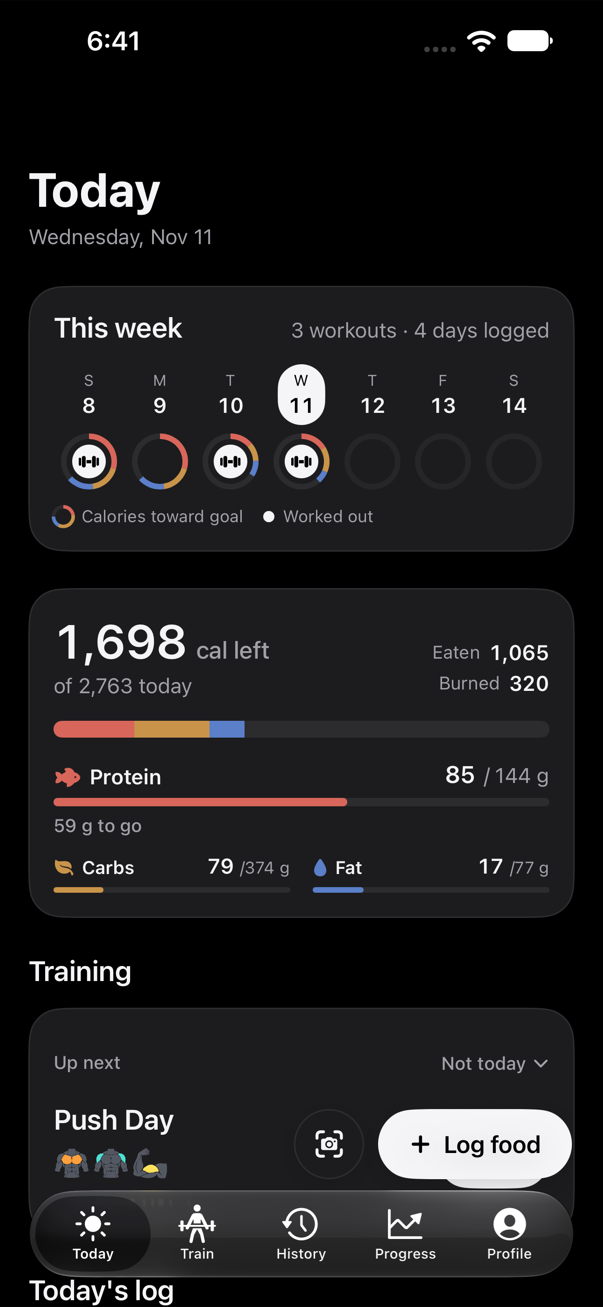
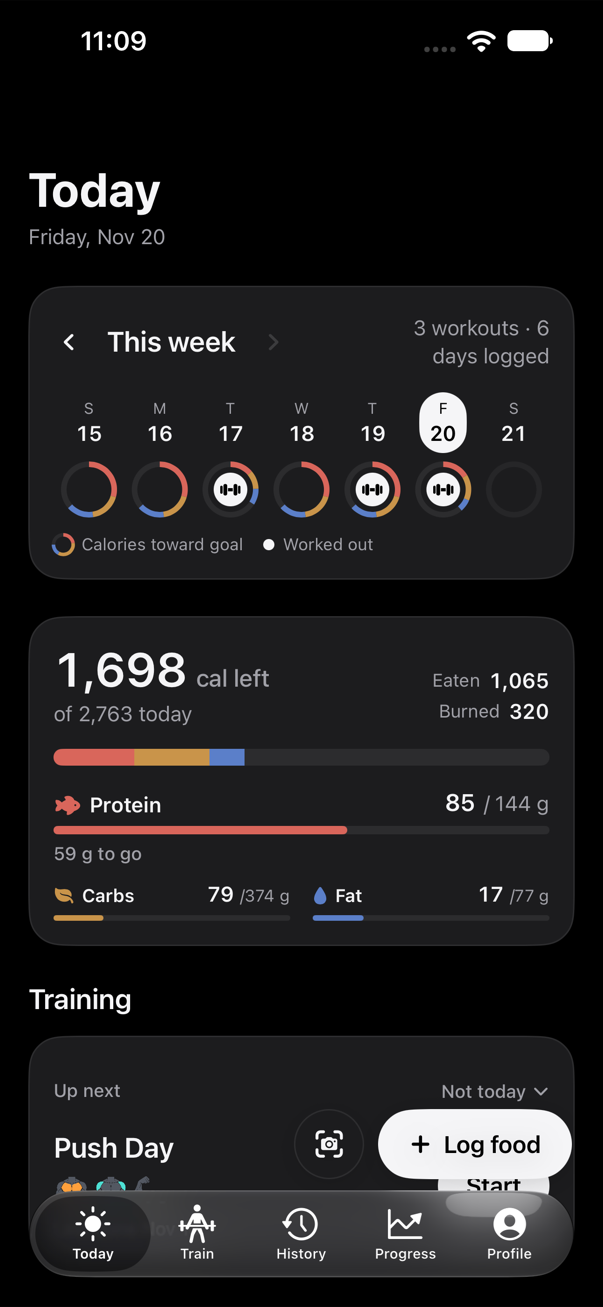
N16: README Today screenshot and Pick a day; D92 approved; ticket evidence (Unit 1344/1344, TodayTrain 86/86); Codex round-1 brief; STATE

diff --git a/work-record/nutrition/issues/16-pick-a-day-on-today.md b/work-record/nutrition/issues/16-pick-a-day-on-today.md
@@ -1,10 +1,10 @@
 # N16 — Pick a day on Today: see it and log food to it
 
 Type: feature
-Status: **prototype round 2 (the user's answers applied), waiting for the user's check** (2026-11-20)
+Status: **built — in Codex review** (2026-11-20; the user approved the prototype without the Back to Today strip)
 Implementer: Claude; Reviewer: Codex (a Paseo Codex agent in this workspace), to "clear".
 Branch: `ericlee4992/today-pick-day` off `main` `cb364043` (Paseo worktree `~/.paseo/worktrees/1qmeipq9/today-pick-day`).
-Decision: **D92** (proposed; the user's answers of 2026-11-20 folded in, approval pending the round-2 check). Builds on D68 (Today), D70 (dated goals), D77 (Up next), N5 (Today's food), N10 (a day's
+Decision: **D92** (approved 2026-11-20). Builds on D68 (Today), D70 (dated goals), D77 (Up next), N5 (Today's food), N10 (a day's
 food page, `DayFoodView`), D82/D83 (scans).
 
 ## The ask (the user, 2026-11-20)
@@ -183,3 +183,65 @@ time follows the meal it opened with, not one changed on the label screen.
   lastUsedAt at now) and the reset rule. UI tests for pick → log → back, earlier weeks, and AXL. Remove the prototype
   file, its hooks and its UI test.
 - Codex review rounds per the `review-round` skill (a new Paseo Codex agent in this workspace).
+
+## The user's go (2026-11-20)
+
+"lets just get rid of back to today button. people can just click the day. start building" — no Back to Today strip
+or button: **today's ring is the way back**. Prototype kept at tag `design/today-pick-day-prototype` (`2bb4bdf1`).
+
+### 2026-11-20 — the real build
+
+- **Prototype removed:** `TodayDayPrototype.swift`, its hooks and `TodayDayPrototypeUITests`; the prototype captures
+  are replaced by the real ones.
+- **Domain:** `Domain/TodayDayPick.swift` — `TodayDayPick` (the picked day and the shown week; `pick`, `moveWeek`,
+  `shownDay`/`showsPastDay`/`logDay`/`shownWeek`, `resetsOnReturn`, `weekTitle`) and `FoodLogDay` (the meal's usual
+  time on a picked past day; nil for none or today; `title`). `WeekSummaryMath.summary(…weekOf:)` shows an earlier week
+  (its days neither today nor ahead; only that week and the one before read). `FoodLog.log` (food, meal), `logManual`
+  and `FoodScan.logLabel` take `loggedAt:` — **only the entry's `loggedAt` moves; `createdAt` and the food's / meal's
+  `lastUsedAt` stay now**, so Recently logged keeps its order.
+- **The day is passed explicitly** (no shared state): Today snapshots `pick.logDay` into `logDay` when Log food or the
+  camera is tapped → `LogFoodView(day:)` (its subtitle, the +, search results, Estimate) → `SelectedFoodView(day:)`,
+  `SelectedMealView(day:)`, `ManualAddView(day:)`, `FoodScanFlow(day:)` (meal photo — camera and library, the picked
+  day winning over a library photo's date — the label via `LabelFoodView(day:)`, the barcode's `SelectedFoodView`), and
+  Today's Manual Add from a scan. `FoodScanQueue` carries `pickedDay` (kept on retry): a picked day's log lists its
+  own scans; today lists every scan as before (so a failed one sent from a picked day is never out of sight); a scan
+  logged to its picked day leaves no "logged earlier" card.
+- **Today:** `@State pick` (kept across tab switches); back to today when the app returns from the background on
+  another day or after an hour (`scenePhase`); the rings follow a picked day's week, so a day picked this week stays
+  in view when the screen is left open into the next. Title, inline title, fuel card (`isToday: false`, Burned from
+  the day's workouts), Training (Resume only), "Tuesday's log" / "Nothing logged on Tuesday.", scans. The pill and
+  the camera are unchanged.
+- **No stored-format change:** no model or schema edit (`loggedAt` exists). No migration, no Gate S.
+- **Apple Health (D74):** `HealthNutritionSync.writeFood` reconciles every entry at its own `loggedAt` with no date
+  window, so a back-dated entry is written on its day and follows its edits and deletes — no change needed.
+- **Self-check fixes before review:** a failed scan from a picked day was only on that day (errors read as absence) →
+  today lists it too; a day picked this week fell out of the rings at a week's end → the rings follow the picked day.
+- **README:** Food logging gains "Pick a day"; `docs/readme/today.png` retaken (the week now has ‹ ›).
+- **Tests:** `WorkoutTrackerTests/TodayDayPickTests.swift` (15: picking, today's ring back, days ahead, midnight, a
+  pick no longer past, week moves and titles, an earlier week's summary, the week rollover, the reset rule, the meal
+  times, logging food / meal / Manual Add / label to a picked day with `createdAt` and "last used" at now, unchanged
+  without a day). `WorkoutTrackerUITests/TodayPickDayUITests.swift` (6: pick → log → today's ring back, a day ahead is
+  no button, camera and library scans to the picked day with nothing on today and no leftover card, earlier weeks,
+  captures light Default and dark AccessibilityL); added to the TodayTrain plan (`scripts/test-plans.py`).
+- **Captures:** [`../captures/16/`](../captures/16/) — `1-today`, `2-past-day`, `3-past-day-log`, `4-log-food`,
+  `5-last-week` in light Default and dark AccessibilityL, and a sheet for each.
+- **Known (by design):** an earlier day before any nutrition goal shows "Set your goals" (D70's dated goals, as N10's
+  day page).
+
+
+### Verification (the real build, 2026-11-20)
+
+Scope (DEVELOPMENT → Verification scope, "Ticket done" for a new feature on Today and Log food, touching the scan
+flow and a Domain week summary with several callers): the Unit plan + the ticket's area plan, TodayTrain (Today,
+Log food, Scan food, barcode, Korean food, Up next, templates — it includes the new class). Captures of the changed
+screens light Default and dark AccessibilityL (from `TodayPickDayUITests`).
+
+```
+Verified: Unit plan — 1344/1344, exit 0, build/results/n16-unitplan.xcresult
+Verified: TodayTrain plan — 86/86 (0 skipped), exit 0, build/results/n16-todaytrain.xcresult (~50 min)
+Verified: focused — unit suites 65/65 (n16-unit.xcresult); TodayPickDayUITests 6/6 (n16-ui.xcresult); build exit 0
+Not verified: on a phone; Apple Health writing a back-dated entry (code read: no date window, unchanged); a label
+  scan and Estimate on a picked day driven in a UI test (unit-tested at FoodScan.logLabel; Estimate by code read);
+  the reset after an hour away / on another day in a UI test (unit-tested rule; the scenePhase hook by code read)
+Known flaky: none seen
+```

diff --git a/work-record/nutrition/codex-review-n16-prompt.md b/work-record/nutrition/codex-review-n16-prompt.md
@@ -1,0 +1,75 @@
+# Codex review — N16, pick a day on Today (round 1)
+
+You are the independent reviewer (T6). Claude implemented. Review only; **modify nothing but the report**.
+
+- Repository: `/Users/ericlee06/.paseo/worktrees/1qmeipq9/today-pick-day` (a Paseo worktree), branch
+  `ericlee4992/today-pick-day`.
+- **Diff range:** `cb364043..HEAD` (`git diff cb364043..HEAD`). The branch also carries two prototype commits whose
+  throwaway code was removed again; the net diff is the real build plus records. The prototype stays at tag
+  `design/today-pick-day-prototype` for reference only.
+
+## Read first
+
+- `AGENTS.md` (the self-check list, "What the reviewer reruns", the conventions).
+- The ticket: `work-record/nutrition/issues/16-pick-a-day-on-today.md` (the user's answers and "the real build").
+- `docs/DECISIONS.md` **D92** (this change), plus D70 (dated goals), D74 (Apple Health), D82/D83 (scans; D92 amends
+  D83(9) while a past day is picked), D77 (Up next), N10's day page (`DayFoodView`).
+
+## Review questions
+
+1. **Entries land on the right day, and nothing else is back-dated** (`Domain/FoodLog.swift` `log` ×2 / `logManual`,
+   `Domain/FoodScan.swift` `logLabel`, `Domain/TodayDayPick.swift` `FoodLogDay`). Only `loggedAt` may move; `createdAt`
+   and the food's / meal's `lastUsedAt` must stay now. Any path where a picked day is lost (logs to today) or where a
+   *today* log is moved (logs to a stale picked day)? Check every log path: Log food's +, search results, Selected
+   food, Selected meal, Manual Add (from Log food and from Today's scan), Estimate (`FoodScanQueue.startDescribe`), a
+   meal photo from the camera and from the library (`FoodScanFlow.shot`), a label (`LabelFoodStep` → `LabelFoodView`),
+   a barcode's food, and Undo (`FoodLog.undo`).
+2. **The day is a snapshot, passed explicitly** (`Features/Today/TodayView.swift` `logDay`, `LogFoodView(day:)`,
+   `FoodScanFlow(day:)`, …). Can the day change under an open Log food or scan (the pick reset on return, midnight, a
+   tab switch)? Can a stale `logDay` from an earlier tap leak into a later Log food or scan from today?
+3. **The pick's rules** (`Domain/TodayDayPick.swift`): today's ring goes back; days ahead are not picked; ‹ › and the
+   swipe move a week and pick the same weekday, never past today; the rings follow a picked day's week across a week's
+   end; a picked day that is no longer past (clock or time zone moved back) shows today and logs at now; the reset when
+   the app returns on another day or after an hour (`TodayView` `scenePhase`). Week starts per locale
+   (`calendar.firstWeekday`), DST days, year boundaries in `weekTitle`.
+4. **The earlier week's summary** (`Domain/WeekSummary.swift` `summary(…weekOf:)`): the window now has an upper bound;
+   does anything change for the current week (Today, `StartWorkoutView`)? `lastWeekWorkoutCount` for an earlier week.
+5. **Scan cards** (`Features/Food/Scan/FoodScanQueue.swift` `pickedDay`, `shown(on:)`, `finish`; `TodayView`
+   `visibleScans` / `scansShown`): a picked day's scan shows on that day and on today while in flight or failed, and
+   leaves once logged; retry keeps the day; D83's earlier-day library card (no pick) unchanged. Any case where a failed
+   scan is out of sight, or a card duplicates its logged entry?
+6. **Today on a past day** (`TodayView`, `Features/Today/TodayPieces.swift`): the fuel card uses that day's goal and
+   Burned from its workouts only (Health's active energy is today's); Up next hidden, Resume kept; the log's header and
+   empty line; the inline title. Accessibility: day rings as buttons with labels/`isSelected`, the selected vs today
+   marks (filled vs outline — not colour alone), AccessibilityL rows (no truncation of what is needed), chevrons ≥44 pt,
+   the swipe has the chevrons as its accessible alternative; Reduce Motion. The `todayWeek` container id now uses
+   `.accessibilityElement(children: .contain)` — do other UI tests that use it still work?
+7. **Claims**: README's "Pick a day" paragraph, D92, the ticket and doc comments against the code.
+8. **No stored-format change**: confirm no `@Model` / schema edit, so no migration or Gate S is due.
+
+## What to run
+
+On **your** simulator — **WT-Redesign-2** (`EB4328A1-87BD-4850-A3B2-A6E604701F1C`) with
+`-derivedDataPath /tmp/wt-n16-codex` (leave WT-iPhone27 and WT-Floodlight alone):
+
+- Build, then the affected unit suites: `-only-testing:WorkoutTrackerTests/TodayDayPickTests`, `FoodLogTests`,
+  `FoodScanTests`, `WeekSummaryTests`, `TodayDayBoundaryTests`, `FoodDayTests` (or the whole Unit plan).
+- Round 1 UI: `-only-testing:WorkoutTrackerUITests/TodayPickDayUITests` (`-parallel-testing-enabled NO`; run
+  `scripts/prepare-test-simulator.sh EB4328A1-87BD-4850-A3B2-A6E604701F1C` first).
+
+## The author's evidence (inspect)
+
+- Unit plan: `build/results/n16-unitplan.xcresult`; TodayTrain plan (includes `TodayPickDayUITests`, `TodayFoodUITests`,
+  `ScanFoodUITests`, `LogFood*`, `TodayUpNextUITests`, …): `build/results/n16-todaytrain.xcresult`; focused
+  `TodayPickDayUITests` 6/6: `build/results/n16-ui.xcresult`; focused unit suites 65/65: `build/results/n16-unit.xcresult`.
+- Captures: `work-record/nutrition/captures/16/`.
+
+## Rules
+
+Modify nothing but the report. No phone, Apple account, backups, deploys or desktop control.
+
+## Report
+
+Write `work-record/nutrition/codex-review-n16.md`: numbered findings with severity P0–P3, file:line, the failure
+scenario and a suggested fix; then what you ran, with counts and exit codes. The last line must be exactly
+`Verdict: clear` or `Verdict: not clear`.

diff --git a/docs/DECISIONS.md b/docs/DECISIONS.md
@@ -283,4 +283,4 @@ Tickets: [N16](../work-record/nutrition/issues/16-pick-a-day-on-today.md).
 
 | # | Decision | Why |
 |---|---|---|
-| D92 | **PROPOSED — the user's choices of 2026-11-20 applied; final approval after the round-2 prototype check.** **Pick a day on Today and log food to it (N16).** Today's rings are buttons for past days and today (future days are not); the picked day's label is filled and today's keeps an outline. **Today turns into the picked day:** the title is the day ("Tuesday" over "November 17, 2026"), the fuel card is against that day's goal (D70) with "cal under" and Burned from its workouts, "Tuesday's log" lists its food and workouts and its scans in flight, Up next is hidden, Resume stays. **The way back:** a "Showing Tuesday, Nov 17 · Back to Today" strip under the week, and today's ring. **Earlier weeks:** ‹ › in the week's header and a swipe ("Last week", then "Nov 1 – 7"); moving a week picks the same weekday, never past today. **Log food and the scan camera look the same on every day and log to the day shown** — every path, scans included; **a library photo goes to the picked day too (amends D83(9) while a past day is picked)**; Log food's screen names the day under its title. **The time is the meal's usual time** (Breakfast 8:00, Lunch 12:30, Snacks 3:30 PM, Dinner 6:30 PM); an entry's `createdAt` and the food's "last used" stay now. The pick survives tab switches and returns to today when the app comes back on another day or after an hour away (proposed). No stored-format change (`loggedAt` exists; the pick is view state). | The user (2026-11-20): "being able to select the days on the today page so that you can go back and edit your food logging"; from the prototype: "Log food and scan button … stay the same across the days", Today turns into that day, Back to Today, earlier weeks, scans go to the picked day, the meal's time. Editing a past day existed (N10's page from History); adding to one did not. |
+| D92 | **Pick a day on Today and log food to it (N16)** (approved from the prototype, the user 2026-11-20: "lets just get rid of back to today button. people can just click the day. start building"). Today's rings are buttons for past days and today (future days are not); the picked day's label is filled and today's keeps an outline (shape, not colour alone); at AccessibilityL the picked row is shaded with a check. **Today turns into the picked day:** the title is the day ("Tuesday" over "November 17, 2026"), the fuel card is against that day's goal (D70) with "cal under" and Burned from its workouts, "Tuesday's log" lists its food and workouts, Up next is hidden, Resume stays. **The way back is today's ring** (no button or strip). **Earlier weeks:** ‹ › in the week's header and a horizontal swipe ("Last week", then "Nov 1 – 7"); moving a week picks the same weekday, never past today. **Log food and the scan camera look the same on every day and log to the day shown** — every path (a food's +, a selected food, My meals, Manual Add, an online result, a meal photo, a label, a barcode's food, Estimate); **a library photo goes to the picked day too (amends D83(9) while a past day is picked)**; Log food names the day under its title. **The time is the meal's usual time** (Breakfast 8:00, Lunch 12:30, Snacks 3:30 PM, Dinner 6:30 PM); an entry's `createdAt` and the food's or meal's "last used" stay now. A scan sent from a picked day shows its card on that day and on today while in flight or failed, and leaves once logged. The pick survives tab switches and returns to today when the app comes back on another day or after an hour away; a picked day stays across midnight while the screen is open. No stored-format change (`loggedAt` exists; the pick is view state). | The user (2026-11-20): "being able to select the days on the today page so that you can go back and edit your food logging"; from the prototype: Log food and scan "stay the same across the days", Today turns into that day, earlier weeks, scans go to the picked day, the meal's time; then no Back to Today control ("people can just click the day"). Editing a past day existed (N10's page from History); adding to one did not. A week-only range could not reach yesterday on the week's first day. Prototype: tag `design/today-pick-day-prototype`. |

diff --git a/docs/STATE.md b/docs/STATE.md
@@ -1,20 +1,18 @@
 # Current project state
 
-Updated **2026-11-20: N16 pick a day on Today — prototype round 2 (the user's answers applied) waiting for the user's check (branch `ericlee4992/today-pick-day`, worktree `~/.paseo/worktrees/1qmeipq9/today-pick-day`; D92 proposed). Earlier: the prompt audit fixes merged (agent-skills 04); `scripts/sim-ui.sh` (agent-skills 03); [0.2.0 (17)](../work-record/release/0.2.0-build-17.md) (My settings) uploaded 2026-11-18 — Gate S on the phone before it installs build 17.** Earlier: 0.2.0 (13) N12 and (12) N13/N14. The previous STATE (Floodlight delivery, the Oct 10–11 free re-sign, the Oct 3 public-beta handoff) is
+Updated **2026-11-20: N16 pick a day on Today — built (prototype approved without the Back to Today strip), tests running then Codex review (branch `ericlee4992/today-pick-day`, worktree `~/.paseo/worktrees/1qmeipq9/today-pick-day`; D92). Earlier: the prompt audit fixes merged (agent-skills 04); `scripts/sim-ui.sh` (agent-skills 03); [0.2.0 (17)](../work-record/release/0.2.0-build-17.md) (My settings) uploaded 2026-11-18 — Gate S on the phone before it installs build 17.** Earlier: 0.2.0 (13) N12 and (12) N13/N14. The previous STATE (Floodlight delivery, the Oct 10–11 free re-sign, the Oct 3 public-beta handoff) is
 archived byte-for-byte: [STATE before TestFlight](archive/STATE-2026-10-13-before-testflight.md). Verify Git on resume.
 
 ## RESUME HERE (2026-11-20)
 
-- **NOW (resume here) — [N16, pick a day on Today](../work-record/nutrition/issues/16-pick-a-day-on-today.md): prototype
-  round 2, waiting for the user's check** (ask 2026-11-20: select days on Today to go back and edit food logging). The
-  user's answers are in (Today turns into the day; "Back to Today" strip; earlier weeks; Log food and the camera look
-  the same on every day and log to it, scans and library photos included; the meal's time) — D92 still marked
-  proposed until they check. Branch `ericlee4992/today-pick-day` off `main` `cb364043`, Paseo worktree
-  `~/.paseo/worktrees/1qmeipq9/today-pick-day`; not merged. Throwaway `Features/Today/TodayDayPrototype.swift` +
-  `TodayDayPrototypeUITests` behind `-todayPickDayPrototype` (add `-uiTestTerra` for scans). **Verified:** build exit 0;
-  prototype UI tests 3/3 (`build/results/ntd-proto2.xcresult`); captures in `work-record/nutrition/captures/16-prototype/`.
-  **No stored-format change expected.** **Next:** the user's OK → real build (remove the prototype; a logged-at separate
-  from `createdAt`/`lastUsedAt`; route every log path; Health check; reset rule; tests), Codex review.
+- **NOW (resume here) — [N16, pick a day on Today](../work-record/nutrition/issues/16-pick-a-day-on-today.md): built,
+  in verification and Codex review** (ask 2026-11-20; the user approved the prototype minus the Back to Today strip —
+  today's ring goes back; D92 approved). Branch `ericlee4992/today-pick-day` off `main` `cb364043`, Paseo worktree
+  `~/.paseo/worktrees/1qmeipq9/today-pick-day`; not merged. Prototype at tag `design/today-pick-day-prototype`.
+  **No stored-format change** (no migration, no Gate S). Focused checks: unit suites 65/65
+  (`build/results/n16-unit.xcresult`), `TodayPickDayUITests` 6/6 (`build/results/n16-ui.xcresult`). Running: Unit plan
+  + TodayTrain plan (`build/n16-run.sh`, exits in `build/n16-exits.txt`). **Next:** read the results → Codex round 1
+  (`work-record/nutrition/codex-review-n16-prompt.md` → `codex-review-n16.md`) → fixes → merge `--ff-only` into `main`.
   `scripts/sim-ui.sh` taps did nothing this session (snapshots fine) — recorded in the ticket.
 - **Pending — [0.2.0 (17)](../work-record/release/0.2.0-build-17.md) uploaded 2026-11-18 01:17 EST** (`main` `8812bfda`; machine-settings 01 My settings, D91; no What's New; the user's What to Test note; no server change; Codex release review clear, Unit 1329/1329). **Stored-format change (`016aa14c…`): Gate S on the phone before installing.** **The user's steps:** processing → Developer → Gate S (with Claude) → install → try My settings → Friends with the What to Test note → Submit.
 - **Done 2026-11-19 — [agent-skills 04, prompt audit fixes](../work-record/agent-skills/issues/04-prompt-audit-fixes.md)**

diff --git a/README.md b/README.md
@@ -17,7 +17,7 @@ machine. During a workout, an exercise's chart icon opens its progress chart wit
 machine exercise can switch between each machine it was logged on (or all of them).
 
 <!-- Screenshots in docs/readme/: the capture UI tests' Soft look (dark, default text size, built-in sample data),
-taken 2026-11-08 (Today and Log food added with nutrition, 2026-11-11) and resized to 603 px wide. Retake them when a shown screen changes visibly (AGENTS.md). -->
+taken 2026-11-08 (Today and Log food added with nutrition, 2026-11-11; Today retaken 2026-11-20 for N16) and resized to 603 px wide. Retake them when a shown screen changes visibly (AGENTS.md). -->
 <p>
 <img src="docs/readme/today.png" width="150" alt="Today: the week's rings, calories and protein left, and the workout up next">
 <img src="docs/readme/workout.png" width="150" alt="The Train tab: gym, the template up next, start buttons and other templates">
@@ -73,6 +73,9 @@ taken 2026-11-08 (Today and Log food added with nutrition, 2026-11-11) and resiz
   changes the goal — and protein to go; without goals it offers to set them. Today's log lists the food by meal; tap an
   entry to change its servings, meal or numbers, or delete it with Undo — or bookmark it into Saved foods (the food
   it came from, or a new food made from the entry) *(on this branch)*.
+  **Pick a day** *(on this branch, not yet in TestFlight)*: tap a ring and Today turns into that day — its calories
+  against that day's goal, its food and workouts — and Log food and the camera log to it (at the meal's usual time);
+  tap today's ring to go back, and ‹ › or a swipe on the week reach earlier weeks.
   **Log food** opens the meal (preset by the time of day), tabs **All / My foods / My meals / Saved foods** and a
   search: your own foods first, then (signed in) more foods from USDA FoodData Central — or, for a search in Korean
   *(on this branch, not yet in TestFlight)*, Korean dishes, plain foods and products from Korea's Ministry of Food and

diff --git a/work-record/nutrition/spec.md b/work-record/nutrition/spec.md
@@ -60,6 +60,6 @@ weight join the training log; Today shows both.
 | [R](issues/11-combined-release.md) | The combined release (Phase 1 + 2) to testers | all |
 | [N12](issues/12-korean-food-database.md) | Korean food database (식품영양성분DB): Korean search, "Is this it?" for Korean barcodes — release 0.2.2 | R |
 | [N13](issues/13-goal-setup.md) | Goal setup: current/desired weight, pace, then the goals; required on first launch — release 0.2.1 | R |
-| [N16](issues/16-pick-a-day-on-today.md) | Pick a day on Today: see it and log food to it (D92, proposed; prototype waiting for the user) | N5, N10 |
+| [N16](issues/16-pick-a-day-on-today.md) | Pick a day on Today: see it and log food to it (D92) | N5, N10 |
 
 Order of work: S5 ([Today's up next](../soft-redesign/issues/05-today-up-next.md), before N1) → N1 → N2 → S6 ([Profile like the prototype](../soft-redesign/issues/06-profile-layout.md), the user 2026-11-08) → N3 → N4 → N5 → N6 → N7 → N8 → N9 → N10 → R (one ticket at a time, in this workspace), then 0.2.1 (P1 workout lag, N13 goal setup) and 0.2.2 (N12 Korean food database).
